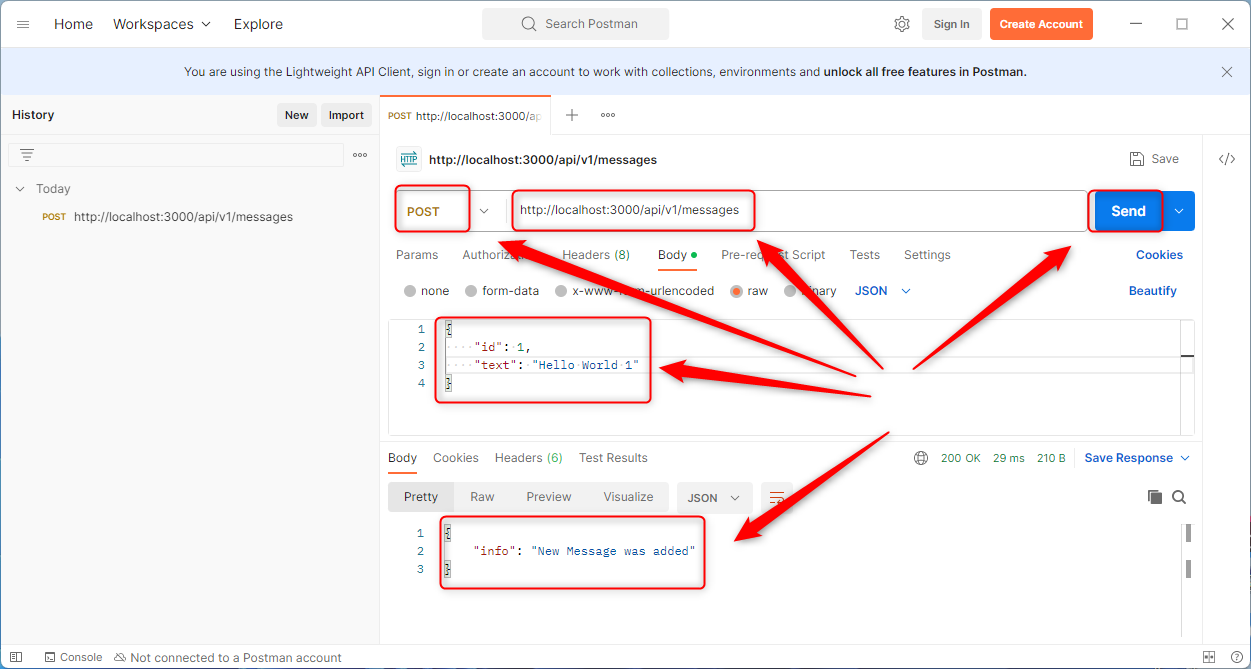
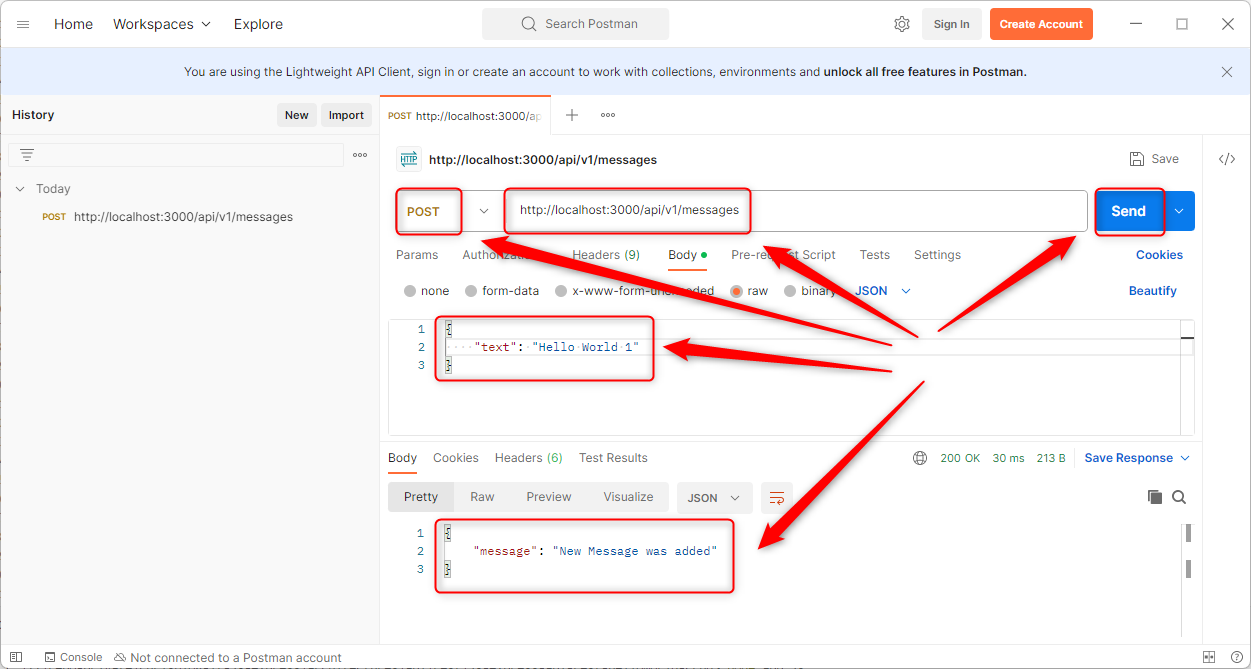
Implement auto-increment

Changed region(s): [[0.3118, 0.2691, 0.9353, 0.8969], [0.4053, 0.0, 1.0, 1.0], [0.0, 0.9865, 0.3741, 1.0]]

diff --git a/technologies/db/js-express-api-rest-helloworld-db-sql-mysql-crud/app.js b/technologies/db/js-express-api-rest-helloworld-db-sql-mysql-crud/app.js
@@ -1,5 +1,5 @@
 import express from 'express';
-import { getAll, getById, add, update, deleteById } from './services/messages-service.js';
+import { getAll, getById, create, update, deleteById } from './services/messages-service.js';
 const port = 3000;
 
 const app = express();
@@ -32,7 +32,7 @@ app.get("/api/v1/messages/:id", async (req, res) => {
 
 app.post("/api/v1/messages", async (req, res) => {
   
-  await add(req.body);
+  await create(req.body.text);
   const json = JSON.parse('{"message": "New Message was added"}')
   displayMessage(json, res, 200);
 

diff --git a/technologies/db/js-express-api-rest-helloworld-db-sql-mysql-crud/services/messages-service.js b/technologies/db/js-express-api-rest-helloworld-db-sql-mysql-crud/services/messages-service.js
@@ -23,11 +23,12 @@ export async function getById(id) {
   return rows[0];
 }
 
-export async function add(message) {
-  await pool.query(`
-  INSERT INTO messages (id, text)
-  VALUES (?, ?)
-  `, [message.id, message.text])
+export async function create(text) {
+  const [result] = await pool.query(`
+  INSERT INTO messages (text)
+  VALUES (?)
+  `, [text])
+  return result.insertId
 }
 
 export async function update(message) {

diff --git a/technologies/db/js-express-api-rest-helloworld-db-sql-mysql-crud/README.md b/technologies/db/js-express-api-rest-helloworld-db-sql-mysql-crud/README.md
@@ -15,7 +15,6 @@ Usage steps:
    * Choose **Body -> raw -> JSON** and add following JSON:
    ```
    {
-    "id": 1,
     "text": "Hello World 1"
    }
    ```
